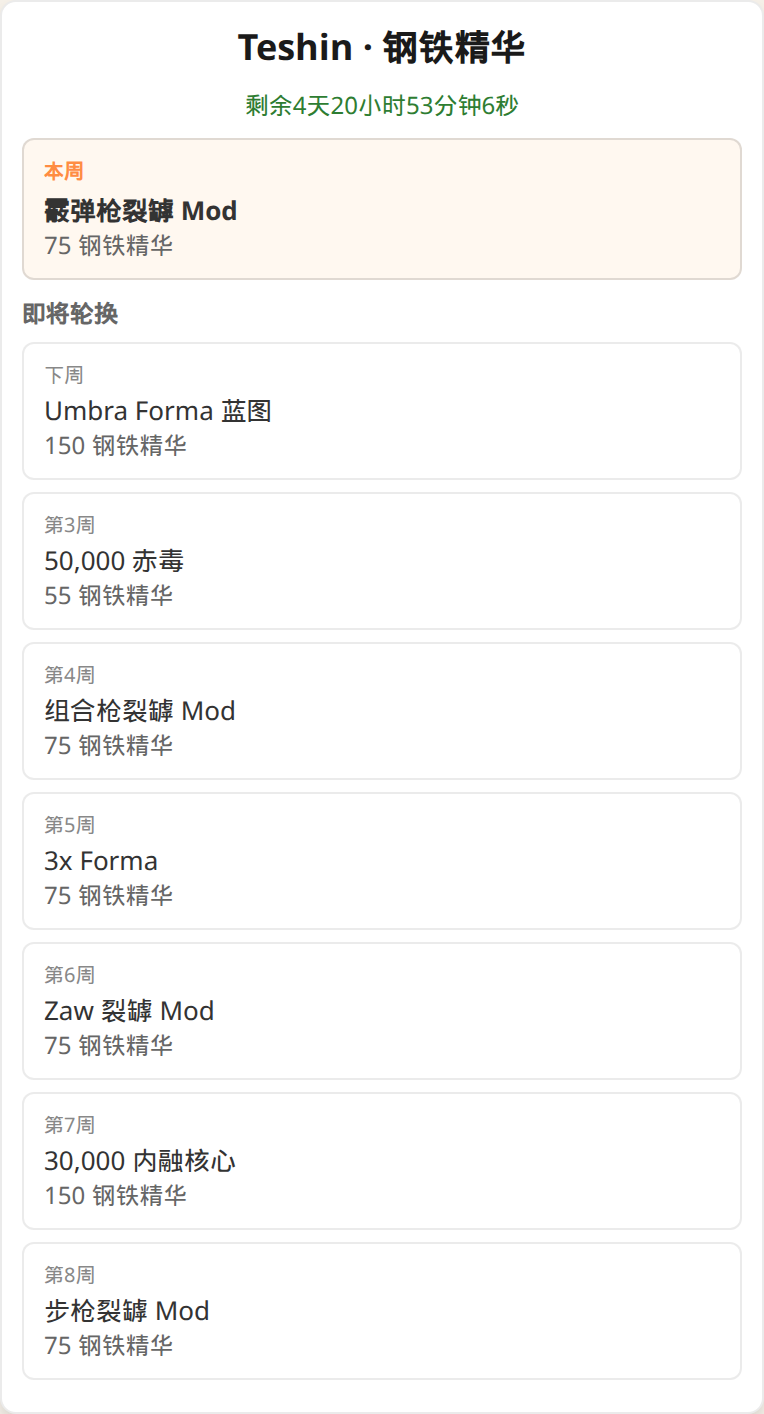
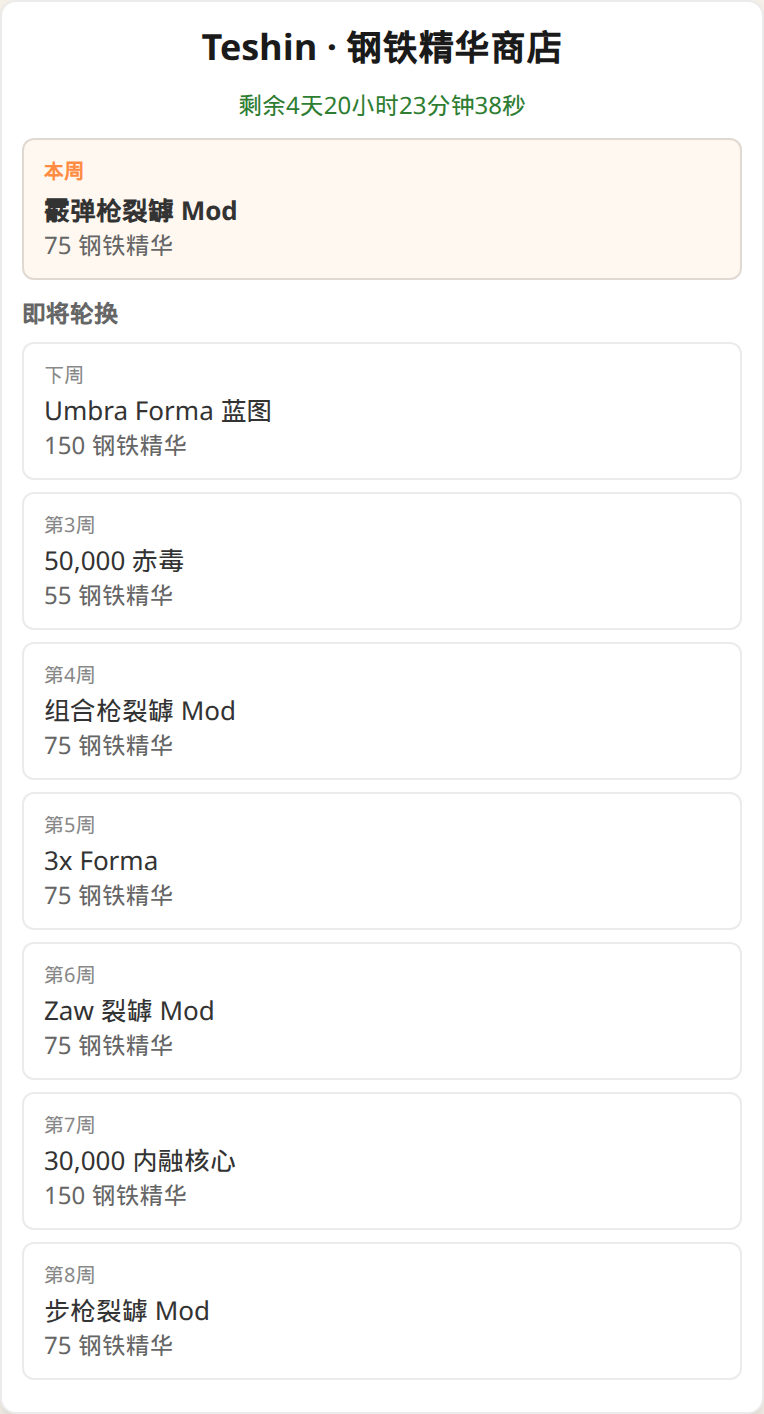
fix(wf): call steelpath a Steel Essence shop rotation
Describe the command as 钢铁精华商店 and title the card the same way.
The payload remains this week's rotating shop items, not a Steel Path
honors list.

Changed region(s): [[0.2709, 0.0, 0.7526, 0.0934]]

diff --git a/tests/services/wf/steelpath.wf.spec.ts b/tests/services/wf/steelpath.wf.spec.ts
@@ -35,7 +35,7 @@ describe('adaptSteelPath', () => {
     const catalogs = await getSteelPathCatalogs()
     const board = await adaptSteelPath(parsedOfferings('Umbra Forma Blueprint'), NOW)
 
-    expect(board.title).to.equal(`${officialZh(TESHIN_KEY)} · ${officialZh(ESSENCE_KEY)}`)
+    expect(board.title).to.equal(`${officialZh(TESHIN_KEY)} · ${officialZh(ESSENCE_KEY)}商店`)
     expect(board.costLabel).to.equal(officialZh(ESSENCE_KEY))
     expect(board.current).to.deep.equal(catalogs.zh.rotation[0])
     expect(board.upcoming).to.deep.equal([
@@ -91,7 +91,7 @@ describe('getSteelPathFrom', () => {
     }
 
     expect(result.error.code).to.equal('steelpath.unavailable')
-    expect(t(result)).to.equal('当前没有钢铁精华荣誉奖励')
+    expect(t(result)).to.equal('当前没有钢铁精华商店轮换')
   })
 
   it('fails when the current rotation has expired', async () => {

diff --git a/tests/components/steelpath.wf.spec.ts b/tests/components/steelpath.wf.spec.ts
@@ -11,7 +11,7 @@ function offering(
 
 function board(overrides: Partial<SteelPathBoard> = {}): SteelPathBoard {
   return {
-    title: 'Teshin · 钢铁精华',
+    title: 'Teshin · 钢铁精华商店',
     costLabel: '钢铁精华',
     remaining: '1天0秒',
     expiry: Date.now() + 86_400_000,
@@ -28,7 +28,7 @@ describe('steelPathComponent tests', () => {
   it('renders title, current offering, cost, remaining time, and upcoming', () => {
     const html = String(SteelPathComponent(board()))
 
-    expect(html).to.include('Teshin · 钢铁精华')
+    expect(html).to.include('Teshin · 钢铁精华商店')
     expect(html).to.include('本周')
     expect(html).to.include('Umbra Forma 蓝图')
     expect(html).to.include('150')

diff --git a/src/i18n.ts b/src/i18n.ts
@@ -12,7 +12,7 @@ export const messages = {
   'bounty.unavailable': '当前该地点暂无可用赏金',
   'invasion.unavailable': '当前没有入侵',
   'alert.unavailable': '当前没有警报',
-  'steelpath.unavailable': '当前没有钢铁精华荣誉奖励',
+  'steelpath.unavailable': '当前没有钢铁精华商店轮换',
   'nightwave.unavailable': '当前没有午夜电波',
 
   'sortie.unavailable': '当前没有突击',

diff --git a/src/commands/index.ts b/src/commands/index.ts
@@ -138,7 +138,7 @@ export function setupCommands(ctx: Context, deps: PluginDependencies): void {
     .alias('灵化')
     .action(wf.circuitCommand)
   ctx
-    .command('steelpath', '钢铁精华荣誉奖励')
+    .command('steelpath', '钢铁精华商店')
     .alias('steel-path')
     .alias('teshin')
     .alias('钢铁精华')

diff --git a/src/warframe/services/wf-service.ts b/src/warframe/services/wf-service.ts
@@ -902,7 +902,7 @@ export async function adaptSteelPath(
     ?? STEEL_PATH_ESSENCE_KEY
 
   return {
-    title: `${teshin} · ${essence}`,
+    title: `${teshin} · ${essence}商店`,
     costLabel: essence,
     remaining: msToHumanReadable(expiry - now),
     expiry,

diff --git a/README.md b/README.md
@@ -38,7 +38,7 @@ Toolkit for Warframe. Provides Warframe Market prices, fissures, arbitrations, r
 | `arbitration` | `[day:number]` | `arbi`, `仲裁`, `仲裁表`                         | Query high-value arbitration missions. Optional `day` controls how many days to show (default: 3). |
 | `weekly`      |                | `周常`, `科研`, `时光科研`, `深层科研`, `执行官` | Query weekly missions (Archon Hunt, Deep Archimedea, Temporal Archimedea).                         |
 | `circuit`     |                | `灵化之源`, `灵化`                               | Query weekly circuit rewards (warframes and incarnon adapters).                                    |
-| `steelpath`   |                | `steel-path`, `teshin`, `钢铁精华`, `钢铁之路`   | Query Teshin's weekly Steel Essence honors rotation (current offering, remaining time, upcoming).  |
+| `steelpath`   |                | `steel-path`, `teshin`, `钢铁精华`, `钢铁之路`   | Query this week's Steel Essence shop rotation (current offering, remaining time, upcoming).        |
 
 ### Open World Cycles
 
